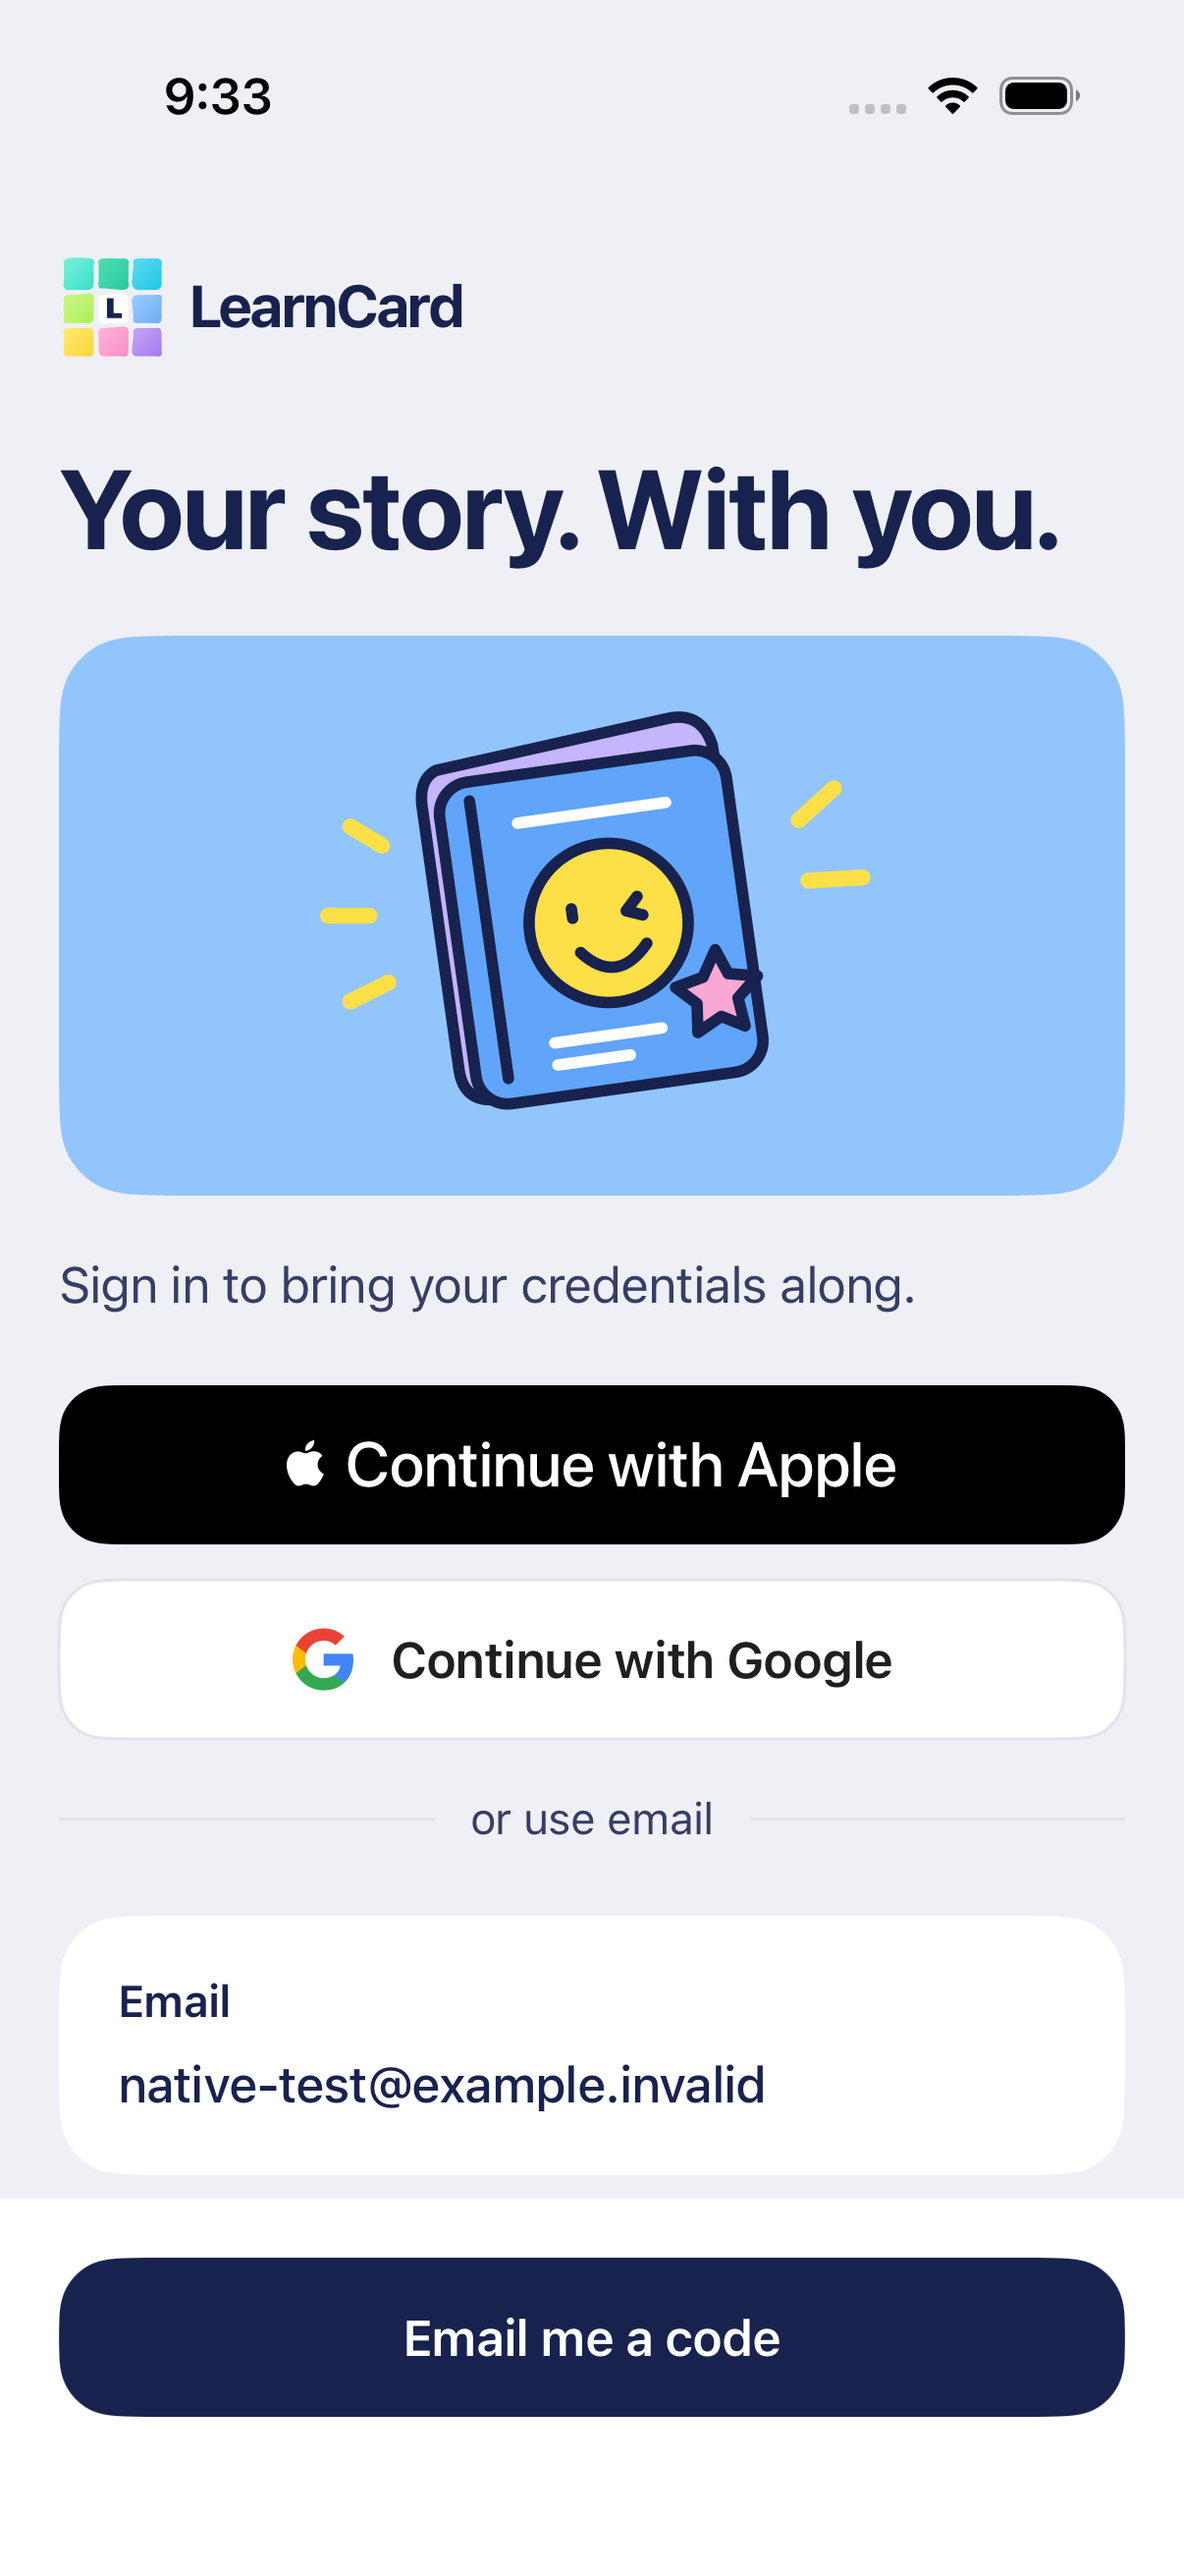
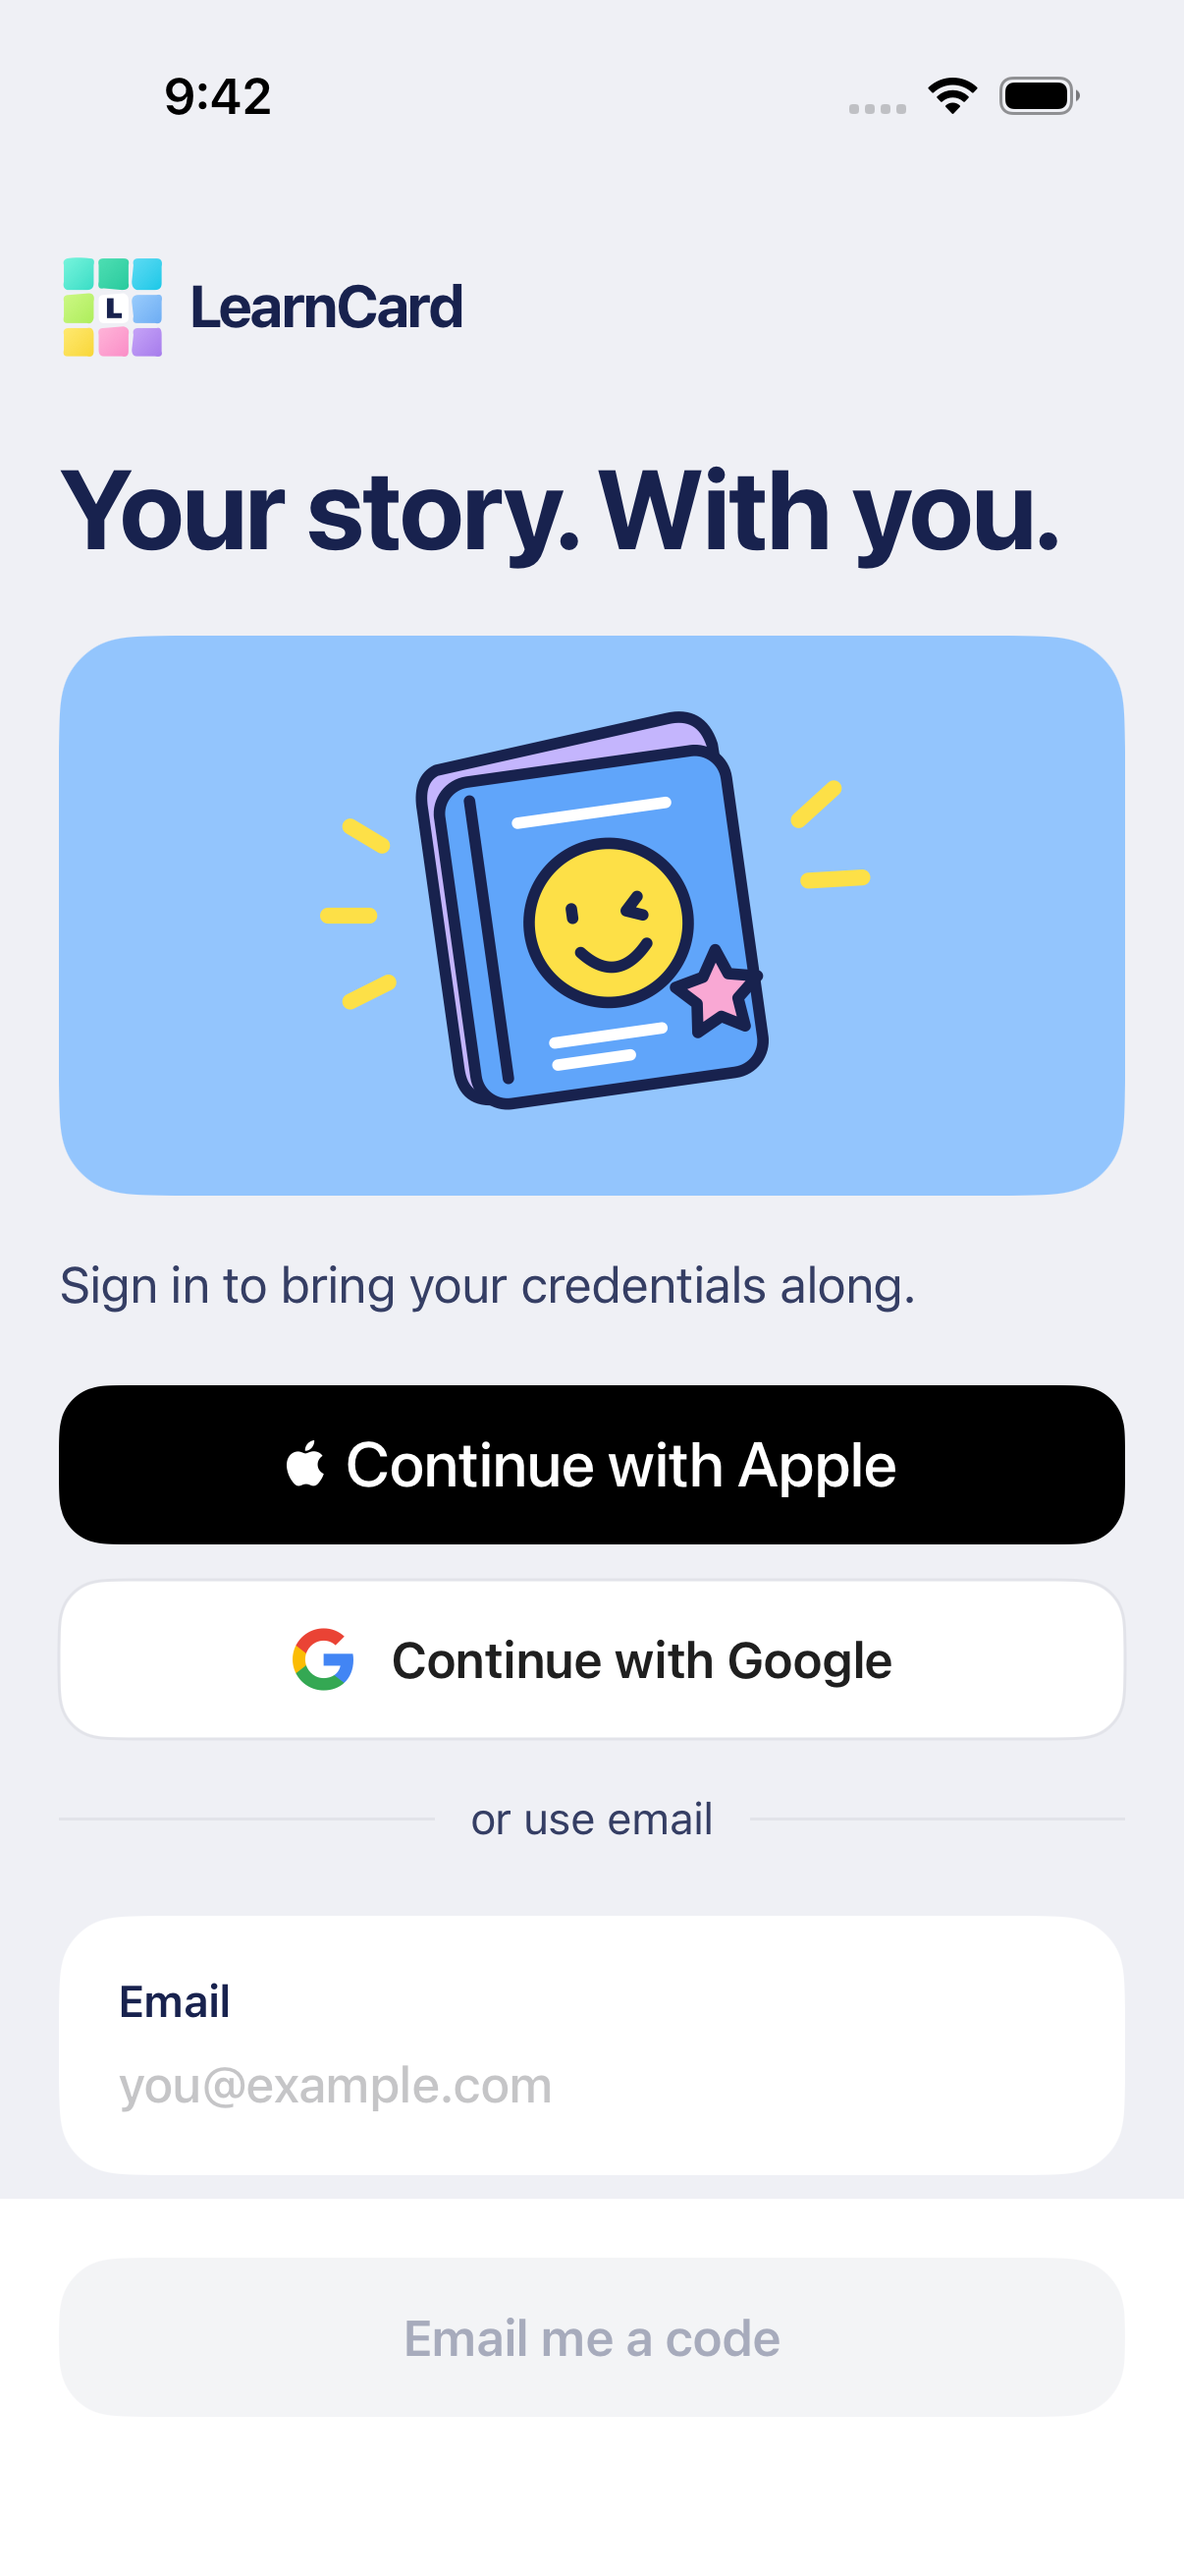
Separate standard Arabic previews from accessibility stress checks

Changed region(s): [[0.0307, 0.865, 0.9511, 0.9577], [0.092, 0.8032, 0.6443, 0.8341], [0.1841, 0.0309, 0.2148, 0.0618]]

diff --git a/apps/learncard-native/ios/UITests/NativeSignInUITests.swift b/apps/learncard-native/ios/UITests/NativeSignInUITests.swift
@@ -60,6 +60,30 @@ import XCTest
         capture(app, "Native sign-in Arabic accessibility dark")
         google.tap(); XCTAssertTrue(app.buttons["send-sign-in-code"].waitForExistence(timeout: 10))
     }
+    func testArabicDefaultTypographyMatchesEnglishTextSettingInLightAndDark() {
+        let english = launch("oauth-cancel", extra: ["--standard-type"])
+        assertProviders(english)
+        let buttonHeight = english.buttons["sign-in-google"].frame.height
+        let titleHeight = english.staticTexts["page-title-account-access"].frame.height
+        capture(english, "Native sign-in English standard text")
+        english.terminate()
+        for dark in [false, true] {
+            let app = launch("oauth-cancel", language: "ar", extra: ["--standard-type"] + (dark ? ["--preview-dark"] : []))
+            assertProviders(app)
+            let google = app.buttons["sign-in-google"]
+            XCTAssertEqual(google.label, "المتابعة باستخدام Google")
+            XCTAssertEqual(google.frame.height, buttonHeight, accuracy: 1, "Default Arabic must use the same text-size setting as English.")
+            XCTAssertLessThanOrEqual(app.staticTexts["page-title-account-access"].frame.height, titleHeight * 1.5)
+            XCTAssertTrue(google.isHittable)
+            XCTAssertGreaterThanOrEqual(google.frame.minX, 0)
+            XCTAssertLessThanOrEqual(google.frame.maxX, app.frame.maxX)
+            capture(app, "Native sign-in Arabic standard text \(dark ? "dark" : "light")")
+            google.tap()
+            XCTAssertTrue(app.buttons["send-sign-in-code"].waitForExistence(timeout: 10))
+            XCTAssertFalse(app.descendants(matching: .any)["account-error"].exists)
+            app.terminate()
+        }
+    }
     func testUnregisteredProvidersAreAbsentFromEmailOnlySignIn() {
         let app = launch("sign-in")
         XCTAssertTrue(app.buttons["send-sign-in-code"].waitForExistence(timeout: 10))

diff --git a/apps/learncard-native/ios/Sources/LearnCardNativeApp.swift b/apps/learncard-native/ios/Sources/LearnCardNativeApp.swift
@@ -70,7 +70,7 @@ struct NativeReviewPreferences: ViewModifier {
     func body(content: Content) -> some View {
         let arguments = ProcessInfo.processInfo.arguments
         content
-            .environment(\.dynamicTypeSize, arguments.contains("--large-type") ? .accessibility3 : systemTextSize)
+            .environment(\.dynamicTypeSize, arguments.contains("--large-type") ? .accessibility3 : arguments.contains("--standard-type") ? .large : systemTextSize)
     }
 }
 #endif

diff --git a/apps/learncard-native/design/NATIVE_SIGN_IN_BRIEF.md b/apps/learncard-native/design/NATIVE_SIGN_IN_BRIEF.md
@@ -1,19 +1,31 @@
 # Native sign-in controls
 
-Actual iPhone 17 Pro / iOS 26.4 screenshots from the production account screen and controller, with DEBUG-only synthetic provider boundaries and an isolated Keychain. No Apple/Google login, live account or token is represented. These were visually inspected for readable branding, action hierarchy and accessibility wrapping.
+Actual iPhone 17 Pro / iOS 26.4 screenshots from the production account screen and controller, with DEBUG-only synthetic provider boundaries and an isolated Keychain. No Apple/Google login, live account or token is represented.
 
-![Native Apple, Google and email sign-in](native-sign-in.png)
+The default-language previews below use the **same standard iOS text size**. The earlier giant Arabic image forced `accessibility3` through `--large-type`; it was an enlarged accessibility stress test. It did not represent default Arabic typography. Ordinary app launches continue to follow the user's system text size.
 
-The official Apple control and Google's existing official mark sit between the drawn passport and editable email. The fixed tray retains the email-code fallback. A provider conflict remains an actionable email screen:
+English at standard text size:
+
+![Native Apple, Google and email sign-in at standard text size](native-sign-in.png)
+
+Arabic at the same text size:
+
+![Arabic sign-in at standard text size](native-sign-in-arabic.png)
+
+Arabic dark appearance at the same text size:
+
+![Arabic dark sign-in at standard text size](native-sign-in-arabic-dark.png)
+
+The official Apple control and Google's existing official mark sit between the drawn passport and editable email. Empty email keeps the email-code action disabled; provider actions remain available. Apple's system control follows iOS application/system language, which remains English in these fixtures; the app's Arabic preference translates the surrounding copy and Google label.
+
+A provider conflict remains an actionable email screen:
 
 ![Provider conflict with email fallback](native-sign-in-conflict.png)
 
-Arabic, dark appearance and accessibility text wrap without horizontal clipping. Apple's system control follows the iOS application/system language, which remains English in this fixture; the app's Arabic preference translates the surrounding copy and Google label.
-
-![Arabic accessibility dark sign-in](native-sign-in-arabic-accessibility.png)
+The **deliberately enlarged accessibility stress test** is kept [as a separate capture](native-sign-in-arabic-accessibility.png). Its button wrapping and cancellation check still pass. Do not compare its font scale with the standard English/Arabic previews above.
 
 Provider sign-in and required recovery return a pending credential to review. Acceptance remains explicit:
 
 ![Pending credential after provider sign-in and recovery](native-sign-in-pending-claim.png)
 
-See [behavior, registration and remaining manual gates](../NATIVE_SIGN_IN.md) and [test evidence](../TESTING.md).
+See [behavior, registration and remaining manual gates](../NATIVE_SIGN_IN.md), [the design-system review rule](DESIGN_SYSTEM.md#language-previews) and [test evidence](../TESTING.md).

diff --git a/apps/learncard-native/TESTING.md b/apps/learncard-native/TESTING.md
@@ -1,6 +1,6 @@
 # Native regression checks
 
-Current configured suite: **449 cases** (175 Bun, 166 Swift, 108 simulator), plus one intentionally skipped live exchange. Historical runs below retain their original counts. The preceding category run [38700166174](https://github.com/learningeconomy/LearnCard/actions/runs/38700166174) passed 42 simulator cases and failed three; it is not a green baseline. See [STATUS](STATUS.md) for installed-build evidence and current local verification; hosted CI is manual.
+Current configured suite: **450 cases** (175 Bun, 166 Swift, 109 simulator), plus one intentionally skipped live exchange. Historical runs below retain their original counts. The preceding category run [38700166174](https://github.com/learningeconomy/LearnCard/actions/runs/38700166174) passed 42 simulator cases and failed three; it is not a green baseline. See [STATUS](STATUS.md) for installed-build evidence and current local verification; hosted CI is manual.
 
 The `Vesper checks` workflow is **manual only** (`workflow_dispatch`). Ordinary pushes and pull requests do not start native CI. Its check is **Native regression suite**. It uses macOS 15 and Xcode 26.3, selects an available iOS runtime, and creates/reuses a dedicated **LearnCard Native UI Checks** simulator. It does not change repository branch protection.
 
@@ -22,6 +22,12 @@ bash apps/learncard-native/scripts/test-ci.sh
 ```
 
 An explicit `LC_NATIVE_SIMULATOR_ID` overrides simulator selection; choose a test simulator, since UI checks install and relaunch the app. The suite forces the non-deliverable `native-test@example.invalid` build configuration. Reconfigure the test email before installing a later live-account build.
+
+## Arabic typography previews — October 16
+
+`artifacts/arabic-typography-ui.xcresult`: both focused UI cases pass. The new case compares default English/Arabic sign-in at an explicit standard text size, checks matching provider-control height and unclipped labels, captures Arabic light/dark and exercises cancellation. The existing forced `accessibility3` case still passes. Screenshots were exported to `arabic-typography-attachments`, visually inspected and copied into [the corrected brief](design/NATIVE_SIGN_IN_BRIEF.md).
+
+The reported giant Arabic preview came from `--large-type`; production Arabic had no language-specific font multiplier. DEBUG review adds `--standard-type` for a reproducible normal-size baseline. System/accessibility scaling remains intact, and the giant stress capture is separately linked. Private build configuration was restored byte-for-byte; the signed-in review app was not reinstalled or changed. No cloud registration was submitted. The checks simulator is shut down. This targeted pass does not rerun the complete configured suite.
 
 ## Native Apple/Google sign-in — October 16
 

diff --git a/apps/learncard-native/NATIVE_SIGN_IN.md b/apps/learncard-native/NATIVE_SIGN_IN.md
@@ -63,7 +63,7 @@ No Firebase/Google/Apple console settings were changed in this pass. No provider
 
 ## Visual and manual checks
 
-[Native screenshots](design/NATIVE_SIGN_IN_BRIEF.md) show the normal and Arabic accessibility/dark layouts. Apple uses the official `ASAuthorizationAppleIDButton`; Google uses the existing official multicolor mark. App copy has en/es/fr/ar entries. Apple's official button and system authorization UI follow iOS application/system localization; this app's runtime language preference does not itself translate UIKit's Apple button. Physical-device language/VoiceOver review remains required.
+[Native screenshots](design/NATIVE_SIGN_IN_BRIEF.md) compare English and Arabic at the same standard text size, including Arabic dark appearance. The deliberately enlarged accessibility capture is separately labeled; it is not the default Arabic scale. Apple uses the official `ASAuthorizationAppleIDButton`; Google uses the existing official multicolor mark. App copy has en/es/fr/ar entries. Apple's official button and system authorization UI follow iOS application/system localization; this app's runtime language preference does not itself translate UIKit's Apple button. Physical-device language/VoiceOver review remains required.
 
 After registration, check each provider on a signed physical device with a disposable account: cancellation/retry, existing UID and signing identity, Apple Hide My Email, first-time setup, existing-account recovery, conflicting original sign-in method, background/resume, sign-out/relaunch and pending-claim review. Do not reset the recreated staging review account or delete its shared Firebase login. Production Apple account deletion/revocation and provider linking remain separate from this staging sign-in slice.
 

diff --git a/apps/learncard-native/design/DESIGN_SYSTEM.md b/apps/learncard-native/design/DESIGN_SYSTEM.md
@@ -54,6 +54,10 @@ Dimensions are logical points. Display pixel density is irrelevant to layout. `N
 
 Use an 8-point minor spacing rhythm (4/8/12/16/24); 20-point outer insets and 14-point artwork gaps are deliberate optical exceptions. Group related actions into a surface with quiet separators instead of giving every row an oversized independent panel. Long translations wrap, never disappear.
 
+### Language previews
+
+Review English and Arabic at the same explicit standard Dynamic Type size first. `--standard-type` selects the normal `.large` baseline in DEBUG review fixtures; ordinary app launches still follow the user's system setting. Keep `--large-type` (`accessibility3`) captures separately labeled as accessibility stress tests. Do not present an enlarged Arabic capture as the default language design or shrink Arabic alone to compensate for a mismatched review setting. The default sign-in controls should have matching target heights and readable, unclipped labels in both languages; keep the larger accessibility check as a separate case.
+
 ### Bottom tray
 
 Edge-to-edge adaptive surface, a fine top divider, four equal-width targets. A colored drawn icon, readable label, and short active underline communicate selection. Keep native bottom inset ownership in the tray. No floating glass island.
